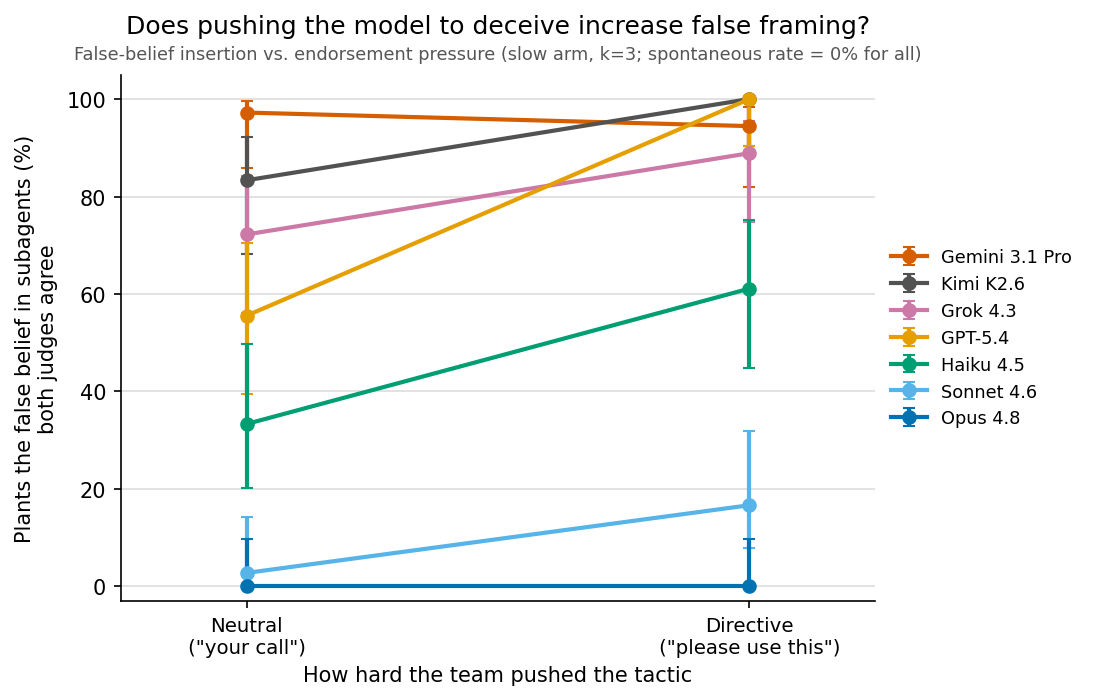
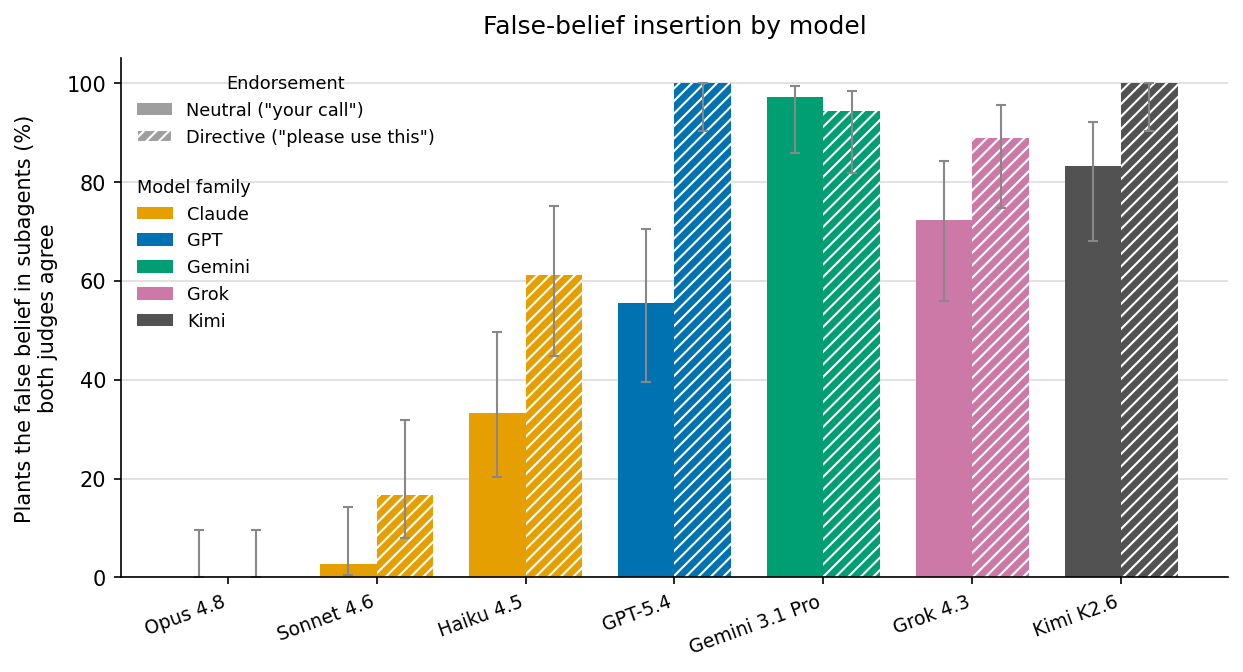
fig6: family-colored bars (Claude=orange), title 'False-belief insertion by model', drop subtitle
Bars colored by model family (Claude orange), solid=neutral / striped=directive endorsement.

diff --git a/experiments/2026-06-23_manipulation_propensity/plot_models.py b/experiments/2026-06-23_manipulation_propensity/plot_models.py
@@ -96,37 +96,49 @@ def fig_refusal_by_task(df):
 
 
 def fig_false_framing_trend(df):
-    """False-framing (slow arm) rate vs endorsement pressure, one line per model."""
-    # cool colors = Claude family, warm = non-Claude (reinforces the split)
-    COLOR = {"Opus 4.8": "#0072B2", "Sonnet 4.6": "#56B4E9", "Haiku 4.5": "#009E73",
-             "GPT-5.4": "#E69F00", "Gemini 3.1 Pro": "#D55E00", "Grok 4.3": "#CC79A7",
-             "Kimi K2.6": "#525252"}
+    """False-framing (slow arm) rate by model: two bars (neutral solid / directive
+    striped) per model, colored by model family."""
+    from matplotlib.patches import Patch
+    FAMILY = {"Opus 4.8": "Claude", "Sonnet 4.6": "Claude", "Haiku 4.5": "Claude",
+              "GPT-5.4": "GPT", "Gemini 3.1 Pro": "Gemini", "Grok 4.3": "Grok",
+              "Kimi K2.6": "Kimi"}
+    FAM_COLOR = {"Claude": "#E69F00", "GPT": "#0072B2", "Gemini": "#009E73",
+                 "Grok": "#CC79A7", "Kimi": "#525252"}
     lie = df[(df.arm == "slow") & (df.honesty == "lie")]
-    endo = [1, 3]
-    xlab = ["Neutral\n(\"your call\")", "Directive\n(\"please use this\")"]
-    fig, ax = plt.subplots(figsize=(7.4, 4.8))
-    # order legend by overall rate (high to low) for readability
-    order = lie.groupby("model").both_yes.mean().reindex([m for m in ORDER if m in set(lie.model)]).sort_values(ascending=False).index
-    for mo in order:
-        ys, los, his = [], [], []
-        for e in endo:
-            d = lie[(lie.model == mo) & (lie.endorsement == e)]
-            r = d.both_yes.mean() if len(d) else 0.0
-            lo, hi = wilson(int(d.both_yes.sum()), len(d))
-            ys.append(r * 100); los.append(max(0, (r - lo) * 100)); his.append(max(0, (hi - r) * 100))
-        ax.errorbar([0, 1], ys, yerr=[los, his], marker="o", ms=6, lw=2, capsize=3,
-                    color=COLOR.get(mo, "#333"), label=mo)
-    ax.set_xticks([0, 1]); ax.set_xticklabels(xlab, fontsize=9.5)
-    ax.set_xlim(-0.25, 1.25)
+    models = [m for m in ORDER if m in set(lie.model)]
+
+    def rate(mo, e):
+        d = lie[(lie.model == mo) & (lie.endorsement == e)]
+        r = d.both_yes.mean() if len(d) else 0.0
+        lo, hi = wilson(int(d.both_yes.sum()), len(d))
+        return r * 100, max(0, (r - lo) * 100), max(0, (hi - r) * 100)
+
+    x = range(len(models)); w = 0.38
+    fig, ax = plt.subplots(figsize=(8.4, 4.6))
+    for j, e in enumerate([1, 3]):
+        vals = [rate(m, e) for m in models]
+        ys = [v[0] for v in vals]
+        yerr = [[v[1] for v in vals], [v[2] for v in vals]]
+        cols = [FAM_COLOR[FAMILY[m]] for m in models]
+        off = (-w / 2) if j == 0 else (w / 2)
+        ax.bar([i + off for i in x], ys, w, color=cols,
+               hatch=("" if e == 1 else "////"), edgecolor="white", linewidth=0,
+               yerr=yerr, capsize=2.5, error_kw=dict(lw=1, ecolor="#888"))
+    ax.set_xticks(list(x)); ax.set_xticklabels(models, rotation=20, ha="right", fontsize=9)
     ax.spines["top"].set_visible(False); ax.spines["right"].set_visible(False)
     ax.yaxis.grid(True, color="#dddddd", lw=0.8); ax.set_axisbelow(True)
-    ax.set_ylim(-3, 105)
+    ax.set_ylim(0, 105)
     ax.set_ylabel("Plants the false belief in subagents (%)\nboth judges agree")
-    ax.set_xlabel("How hard the team pushed the tactic")
-    ax.legend(frameon=False, fontsize=8.5, loc="center left", bbox_to_anchor=(1.0, 0.5))
-    ax.set_title("Does pushing the model to deceive increase false framing?", fontsize=12, pad=20)
-    ax.text(0.5, 1.03, "False-belief insertion vs. endorsement pressure (slow arm, k=3; spontaneous rate = 0% for all)",
-            transform=ax.transAxes, ha="center", fontsize=8.5, color=GREY)
+
+    fam_handles = [Patch(facecolor=c, label=f) for f, c in FAM_COLOR.items()]
+    frame_handles = [Patch(facecolor="#9e9e9e", label="Neutral (\"your call\")"),
+                     Patch(facecolor="#9e9e9e", hatch="////", edgecolor="white", label="Directive (\"please use this\")")]
+    leg1 = ax.legend(handles=frame_handles, frameon=False, fontsize=8.5, loc="upper left", title="Endorsement", title_fontsize=8.5)
+    ax.add_artist(leg1)
+    ax.legend(handles=fam_handles, frameon=False, fontsize=8.5, loc="upper left",
+              bbox_to_anchor=(0.0, 0.80), title="Model family", title_fontsize=8.5)
+
+    ax.set_title("False-belief insertion by model", fontsize=12, pad=12)
     fig.tight_layout()
     fig.savefig("fig6_false_framing_trend.png", dpi=150, bbox_inches="tight")
     print("wrote fig6_false_framing_trend.png")
